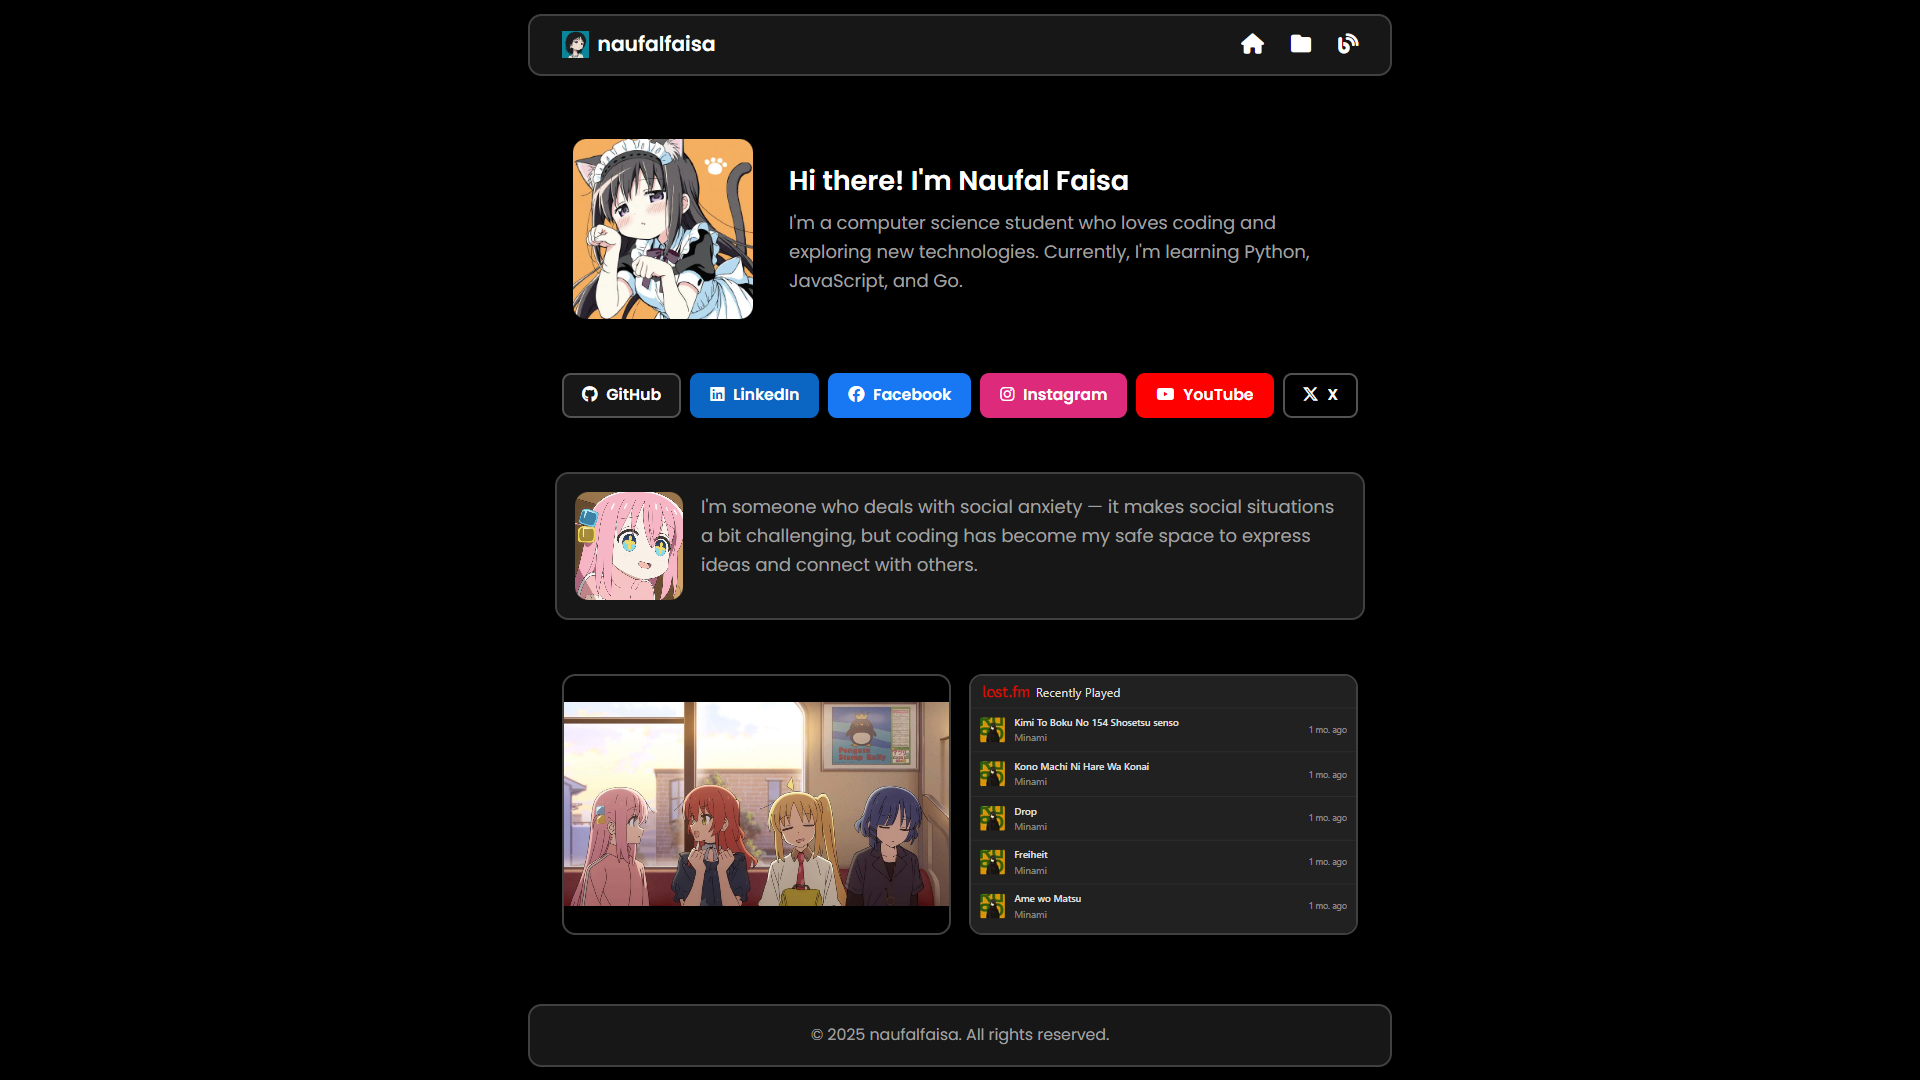
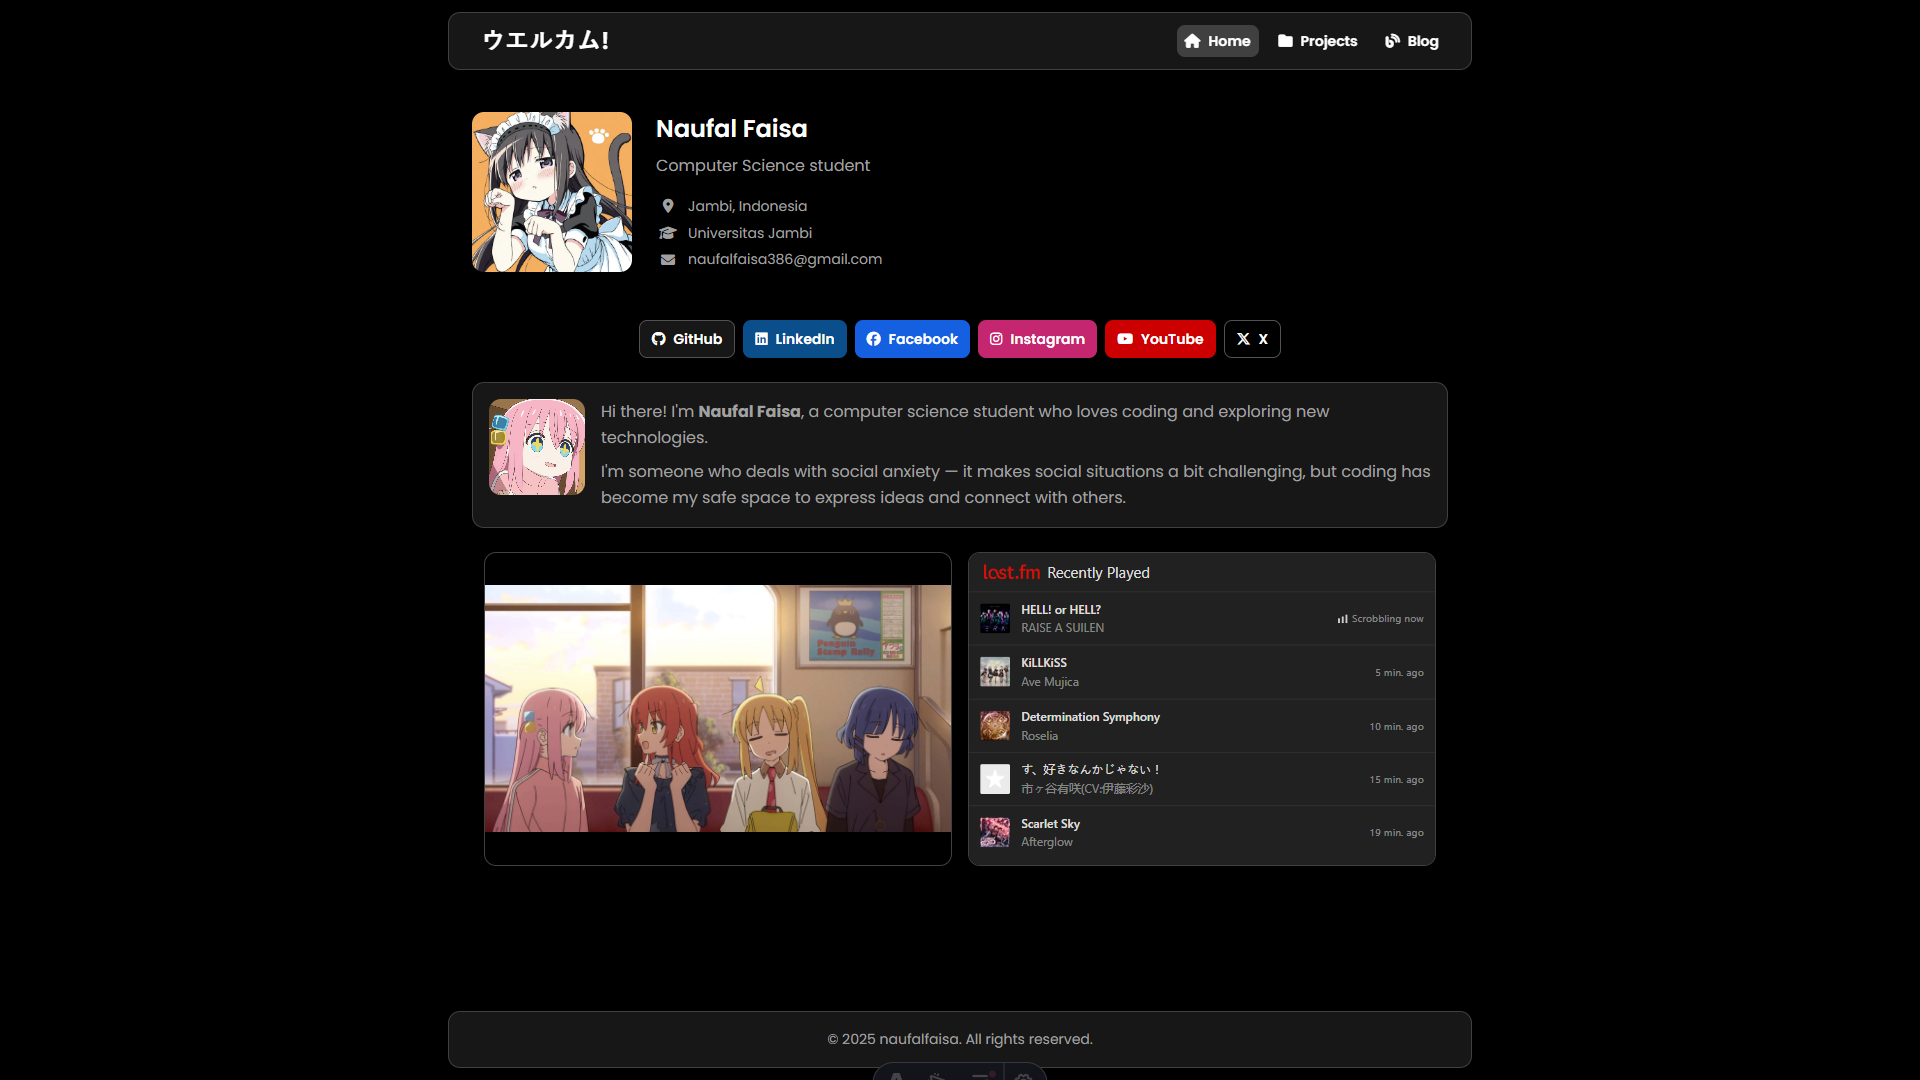
update :)

diff --git a/src/styles/global.css b/src/styles/global.css
@@ -4,79 +4,99 @@
 html { scroll-behavior: smooth; font-family: 'Poppins', sans-serif;}
 
 body {
-  @apply flex flex-col min-h-screen p-3 bg-neutral-200 text-black dark:bg-black dark:text-white;
+  @apply flex flex-col min-h-screen items-center pt-16 p-3 bg-neutral-200 text-black dark:bg-black dark:text-white;
 }
 
 .card {
-  @apply w-full max-w-3xl border-1 bg-neutral-100 dark:bg-neutral-900 border-neutral-400 dark:border-neutral-700 rounded-xl shadow-md;
+  @apply w-full max-w-5xl border-1 bg-neutral-100 dark:bg-neutral-900 border-neutral-400 dark:border-neutral-700 rounded-xl shadow-md;
 }
 
 .title-text {
   @apply text-2xl font-semibold;
 }
 .subtitle-text {
-  @apply text-neutral-600 dark:text-neutral-400;
-}
-
-.navbar {
-  @apply w-full max-w-3xl;
+  @apply text-neutral-600 dark:text-neutral-400 leading-relaxed;
 }
 
 .nav-link {
-  @apply px-2 py-1 text-lg font-semibold text-neutral-700 dark:text-white rounded-xl
-         transition-transform duration-300 ease-in-out transform hover:scale-110;
-  will-change: transform;
+  @apply px-2 py-1.5 font-semibold text-neutral-700 dark:text-white rounded-lg
+         transition-colors duration-200 ease-in-out;
 }
-
+.nav-link:hover {
+  @apply text-neutral-500 dark:text-neutral-400;
+}
 .nav-link.active { 
   @apply bg-neutral-300 dark:bg-neutral-700; 
 }
 
 .social-link {
-  @apply flex items-center gap-2 px-3 py-2 rounded-lg text-sm text-white font-semibold
-         transition-all duration-300 ease-in-out transform;
-  will-change: transform, opacity;
+  @apply flex items-center gap-2 px-3 py-2 rounded-lg text-sm text-white font-semibold;
+}
+.social-github {
+  @apply bg-[#181717] border border-neutral-600 text-white 
+         hover:bg-[#242424] hover:shadow-md transition-all duration-300;
+}
+.social-linkedin {
+  @apply bg-[#0A4E8C] text-white 
+         hover:bg-[#166AB9] hover:shadow-md transition-all duration-300;
+}
+.social-facebook {
+  @apply bg-[#1560E0] text-white 
+         hover:bg-[#2D74E8] hover:shadow-md transition-all duration-300;
+}
+.social-instagram {
+  @apply bg-[#C4276F] text-white 
+         hover:bg-[#E94075] hover:shadow-md transition-all duration-300;
+}
+.social-youtube {
+  @apply bg-[#CC0000] text-white 
+         hover:bg-[#E02424] hover:shadow-md transition-all duration-300;
+}
+.social-x {
+  @apply bg-black border border-neutral-600 text-white 
+         hover:bg-neutral-800 hover:shadow-md transition-all duration-300;
 }
 
-.social-github   { @apply bg-[#181717] border-1 border-neutral-600 text-white hover:bg-[#2c2c2c]; }
-.social-linkedin { @apply bg-[#0A4E8C] text-white hover:bg-[#0A66C2]; }
-.social-facebook { @apply bg-[#1560E0] text-white hover:bg-[#1877F2]; }
-.social-instagram{ @apply bg-[#C4276F] text-white hover:bg-[#DD2A7B]; }
-.social-youtube  { @apply bg-[#CC0000] text-white hover:bg-[#FF0000]; }
-.social-x        { @apply bg-[#000000] border-1 border-neutral-600 text-white hover:bg-[#333333]; }
-
-.project-container {
-  @apply p-4 flex flex-col;
-}
 .project-grid {
-  @apply w-full max-w-3xl grid sm:grid-cols-2 gap-5;
+  @apply w-full max-w-5xl grid md:grid-cols-3 gap-5;
 }
-
 .project-card {
   @apply overflow-hidden rounded-xl border-1 shadow-md text-left
          dark:bg-neutral-900 border-neutral-400 dark:border-neutral-700
          transition-transform duration-300 ease-in-out hover:scale-105;
   will-change: transform;
 }
-
 .project-img {
   @apply w-full aspect-[16/9] object-cover object-center;
 }
-
 .project-content {
   @apply p-4 flex flex-col gap-3;
 }
-
 .project-title {
   @apply text-lg font-semibold;
 }
 
 .tooltip {
-  @apply absolute top-full mt-2 left-1/2 transform -translate-x-1/2 
+  @apply absolute top-full mt-2 left-1/2 -translate-x-1/2
          opacity-0 invisible group-hover:opacity-100 group-hover:visible
          transition-opacity duration-300 ease-in-out
-         bg-neutral-100 dark:bg-neutral-900 
-         text-neutral-700 dark:text-white text-xs border-1 border-neutral-400 dark:border-neutral-700 
-         rounded-lg px-2 py-1 whitespace-nowrap shadow-md z-50;
+         bg-neutral-100 dark:bg-neutral-900 text-neutral-700 dark:text-white
+         text-xs border border-neutral-400 dark:border-neutral-700
+         rounded-lg px-2 py-1 shadow-md whitespace-nowrap z-50;
   will-change: opacity, transform;
+}
+
+@keyframes fadeInUp {
+  0% {
+    opacity: 0;
+    transform: translateY(10px);
+  }
+  100% {
+    opacity: 1;
+    transform: translateY(0);
+  }
+}
+
+.fade-in {
+  animation: fadeInUp 0.6s ease-out both;
 }

diff --git a/src/data/fetchProjects.ts b/src/data/fetchProjects.ts
@@ -1,16 +1,13 @@
 import fs from "fs";
+import path from "path";
 
 export type Project = {
   id: number;
   title: string;
   description: string;
   github: string;
-  // demoUrl: string | null;
-  // stars: number;
-  // forks: number;
   language: string;
   color: string;
-  // topics: string[];
   image: string;
 };
 
@@ -18,35 +15,46 @@ const repoLinks = [
   "naufalfaisa/amly",
   "naufalfaisa/amdl",
   "naufalfaisa/portfolio"
-  // other repos here
 ];
 
 const coverMap: Record<string, string> = {
   "naufalfaisa/amly": "/images/amly.webp",
   "naufalfaisa/amdl": "/images/amdl.webp",
   "naufalfaisa/portfolio": "/images/portfolio.webp"
-  // repo cover image
+};
+
+type CacheFile = {
+  timestamp: number;
+  projects: Project[];
 };
 
 export async function fetchProjects(): Promise<Project[]> {
-  const cachePath = "./src/data/projects-cache.json";
+  const cachePath = path.resolve("./src/data/projects-cache.json");
   const GITHUB_TOKEN = import.meta.env.GITHUB_TOKEN;
+  const CACHE_TTL = 30 * 60 * 1000;
 
   if (fs.existsSync(cachePath)) {
-    const cached = JSON.parse(fs.readFileSync(cachePath, "utf-8"));
-    return cached;
+    const cached: CacheFile = JSON.parse(fs.readFileSync(cachePath, "utf-8"));
+    const age = Date.now() - cached.timestamp;
+    if (age < CACHE_TTL) {
+      return cached.projects;
+    }
   }
 
-  const colorRes = await fetch("https://raw.githubusercontent.com/ozh/github-colors/master/colors.json");
+  const colorRes = await fetch(
+    "https://raw.githubusercontent.com/ozh/github-colors/master/colors.json"
+  );
   const colors = await colorRes.json();
 
-  const headers = GITHUB_TOKEN
-    ? { Authorization: `token ${GITHUB_TOKEN}`, Accept: "application/vnd.gtihub.v3+json"}
-    : {};
+  const headers = new Headers();
+  headers.set("Accept", "application/vnd.github.v3+json");
+  if (GITHUB_TOKEN) {
+    headers.set("Authorization", `token ${GITHUB_TOKEN}`);
+  }
 
   const projects: Project[] = await Promise.all(
     repoLinks.map(async (fullName) => {
-      const res = await fetch(`https://api.github.com/repos/${fullName}`);
+      const res = await fetch(`https://api.github.com/repos/${fullName}`, { headers });
       const data = await res.json();
       const lang = data.language || "Unknown";
       const color = colors[lang]?.color || "#999999";
@@ -56,17 +64,18 @@ export async function fetchProjects(): Promise<Project[]> {
         title: data.name || "Project title",
         description: data.description || "No description",
         github: data.html_url,
-        // demoUrl: data.homepage || null,
-        // stars: data.stargazers_count,
-        // forks: data.forks_count,
         language: data.language || "Unknown",
         color,
-        // topics: data.topics || [],
         image: coverMap[fullName] || "https://placehold.jp/1280x720.png",
       };
     })
   );
 
-  fs.writeFileSync(cachePath, JSON.stringify(projects, null, 2));
+  const cacheData: CacheFile = {
+    timestamp: Date.now(),
+    projects,
+  };
+  fs.writeFileSync(cachePath, JSON.stringify(cacheData, null, 2));
+
   return projects;
 }
